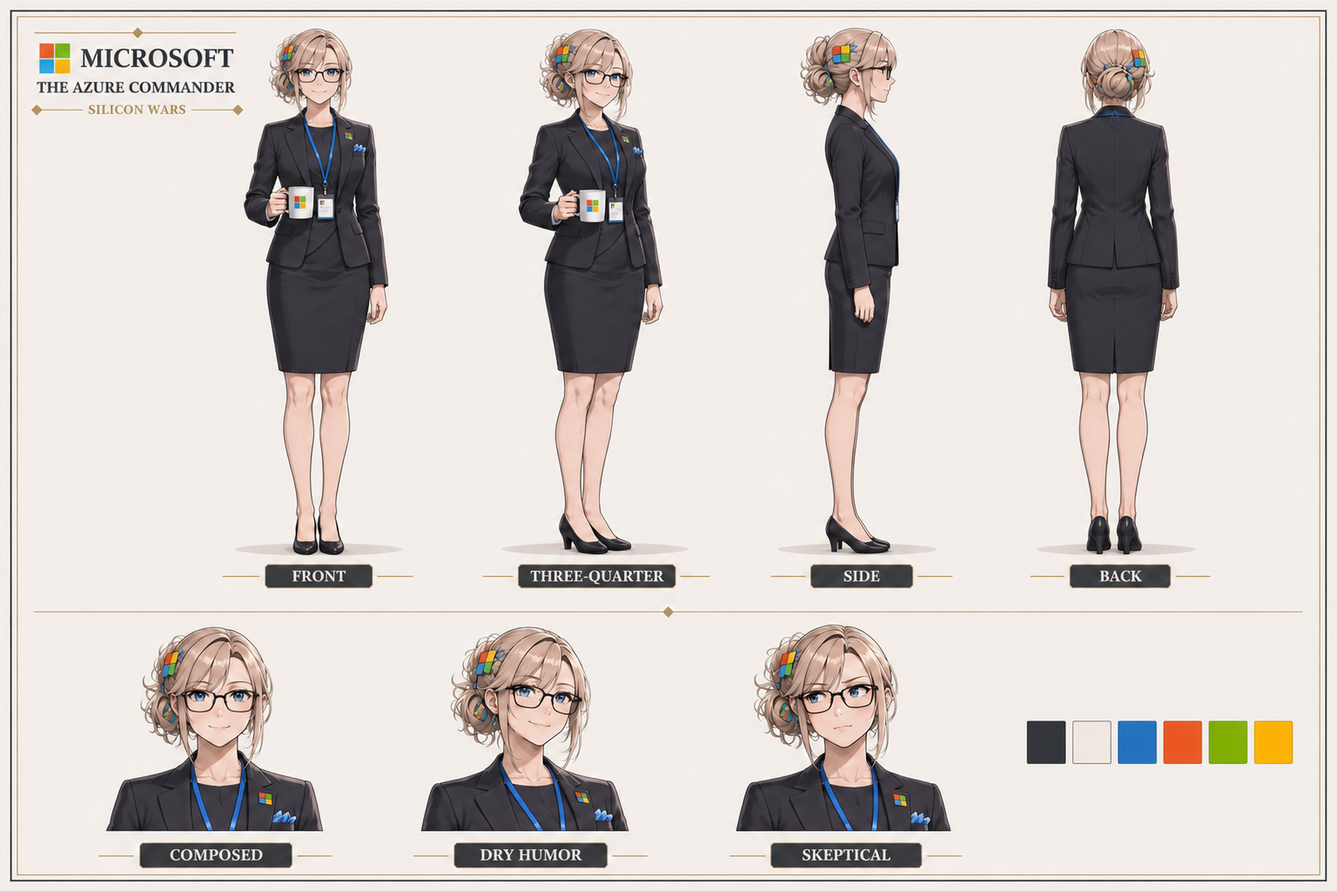
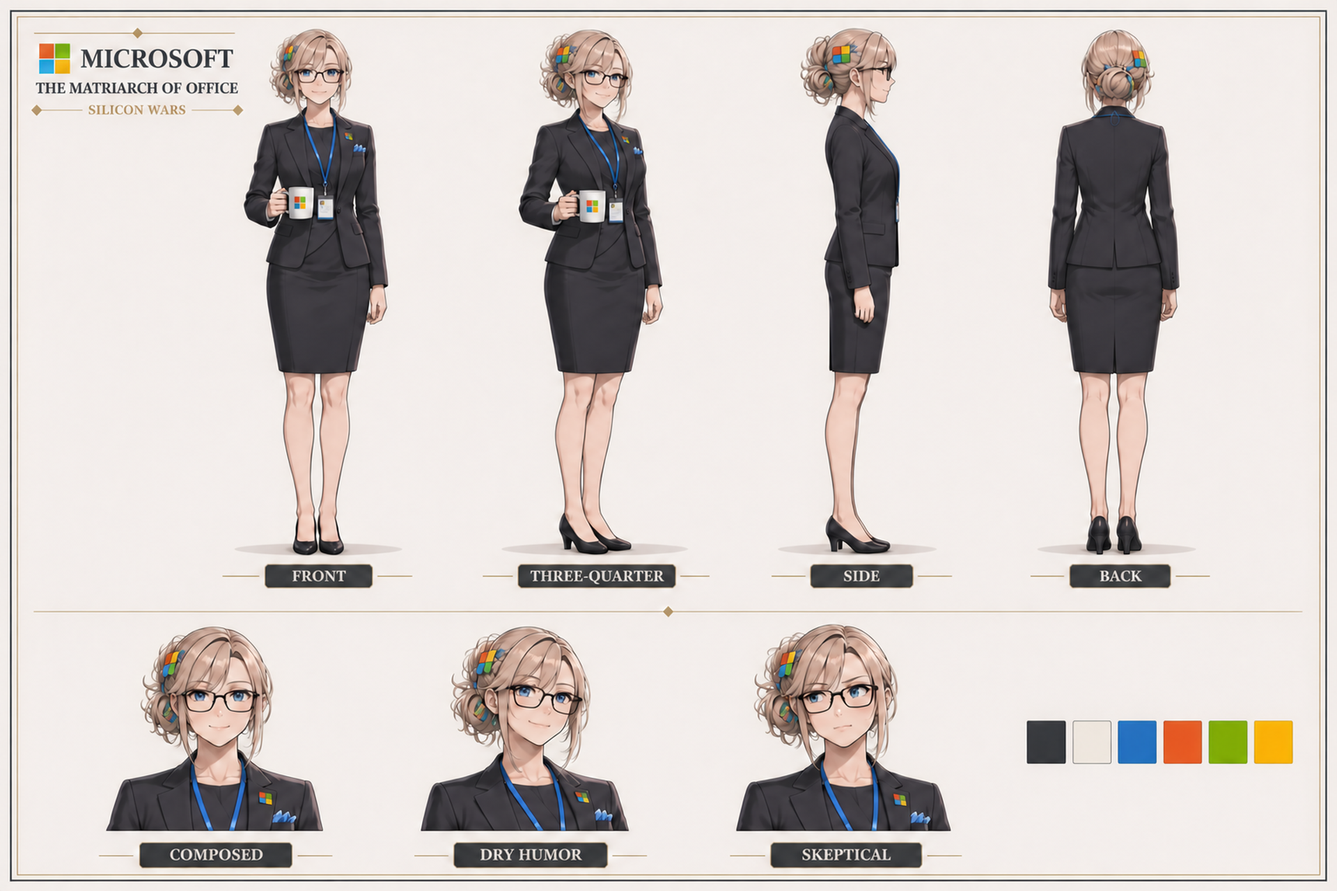
Finish Microsoft reference art as The Matriarch of Office

diff --git a/index.html b/index.html
@@ -644,7 +644,7 @@
             <article class="character-card"><img src="characters/amd/reference_card.jpg" alt="AMD — The Crimson Challenger" fetchpriority="high"><div class="card-caption"><span class="character-name">AMD</span><span class="character-title">The Crimson Challenger</span></div></article>
             <article class="character-card"><img src="characters/nvidia/reference_card.jpg" alt="Nvidia — The Emerald Queen" fetchpriority="high"><div class="card-caption"><span class="character-name">Nvidia</span><span class="character-title">The Emerald Queen</span></div></article>
             <article class="character-card"><img src="characters/google/reference_card.jpg" alt="Google — The Rainbow Polymath" loading="lazy"><div class="card-caption"><span class="character-name">Google</span><span class="character-title">The Rainbow Polymath</span></div></article>
-            <article class="character-card"><img src="characters/microsoft/reference_card.jpg" alt="Microsoft — The Azure Commander" loading="lazy"><div class="card-caption"><span class="character-name">Microsoft</span><span class="character-title">The Azure Commander</span></div></article>
+            <article class="character-card"><img src="characters/microsoft/reference_card.jpg" alt="Microsoft — The Matriarch of Office" loading="lazy"><div class="card-caption"><span class="character-name">Microsoft</span><span class="character-title">The Matriarch of Office</span></div></article>
             <article class="character-card"><img src="characters/apple/reference_card.jpg" alt="Apple — The Silver Perfectionist" loading="lazy"><div class="card-caption"><span class="character-name">Apple</span><span class="character-title">The Silver Perfectionist</span></div></article>
             <article class="character-card"><img src="characters/meta/reference_card.jpg" alt="Meta — The Social Worldbuilder" loading="lazy"><div class="card-caption"><span class="character-name">Meta</span><span class="character-title">The Social Worldbuilder</span></div></article>
             <article class="character-card"><img src="characters/amazon/reference_card.jpg" alt="Amazon — The Logistics Overlord" loading="lazy"><div class="card-caption"><span class="character-name">Amazon</span><span class="character-title">The Logistics Overlord</span></div></article>

diff --git a/characters/microsoft/character_sheet.prompt.md b/characters/microsoft/character_sheet.prompt.md
@@ -4,7 +4,7 @@ All illustrations were generated with the built-in image generator.
 
 ## Revised reference card (2026-11-07)
 
-- Output [Painted reference card](reference_card.jpg) (1280 x 1920)
+- Output [Painted reference card](https://github.com/hevangel/silicon_wars_anime_girls/blob/67db1849cf4ebf3f295f9b35ecee7334c55d8beb/characters/microsoft/reference_card.jpg) (1280 x 1920)
 - Input [Previous reference card](https://github.com/hevangel/silicon_wars_anime_girls/blob/d3f5842/characters/microsoft/reference_card.jpg), the datasheet crop that was the design source
 - Direction from Horace: the old color and style is good; glasses, suit, corporate name tag, and a coffee mug; make her 30 years old. The crop already had glasses, suit, lanyard badge, and mug, so the revision keeps all of them and makes the 30-year-old portrayal explicit. The card's caption title ("The Platform Strategist") was superseded by her canonical title, The Azure Commander. Note: the old README/roster said "navy / deep blue hair," but the card Horace approved is ash-blonde; the card wins and the text files were corrected to match it.
 
@@ -20,7 +20,7 @@ Create a polished landscape 3:2 anime character model sheet for MICROSOFT, THE A
 
 ## Expression sheet
 
-The built-in image generator used the [current model sheet](https://github.com/hevangel/silicon_wars_anime_girls/blob/640e9a8216b12197c82e1dc4211c0e7536163c22/characters/microsoft/character_sheet.png) for identity and [Intel's expression sheet](../intel/expressions.png) for layout and acting. The output is [expressions.png](expressions.png) (1920 x 1280). All 12 labels are correct and in order. Correction history: the first take was missing her glasses in 7 of the 12 cells; a correction pass the same day (at Horace's request) added the same black-rimmed glasses to EYES CLOSED, CRYING, SURPRISED, FLUSTERED, SERIOUS, BLUSHING, and EXCITED, so the installed sheet has glasses in all 12 cells and the full-body figure.
+The built-in image generator used the [current model sheet](https://github.com/hevangel/silicon_wars_anime_girls/blob/640e9a8216b12197c82e1dc4211c0e7536163c22/characters/microsoft/character_sheet.png) for identity and [Intel's expression sheet](../intel/expressions.png) for layout and acting. The output is [expressions.png](https://github.com/hevangel/silicon_wars_anime_girls/blob/67db1849cf4ebf3f295f9b35ecee7334c55d8beb/characters/microsoft/expressions.png) (1920 x 1280). All 12 labels are correct and in order. Correction history: the first take was missing her glasses in 7 of the 12 cells; a correction pass the same day (at Horace's request) added the same black-rimmed glasses to EYES CLOSED, CRYING, SURPRISED, FLUSTERED, SERIOUS, BLUSHING, and EXCITED, so the installed sheet has glasses in all 12 cells and the full-body figure.
 
 Create a production-ready colored manga EXPRESSION SHEET for MICROSOFT, THE AZURE COMMANDER, in Silicon Wars, a 30-year-old woman. Image 1 is this character's current model sheet. Follow it closely for the exact facial proportions, blue eyes, black-rimmed rectangular glasses worn in every cell, light ash-blonde hair in a neat low bun with four-color windowpane hair clips, outfit, colors and body build. Image 2 is a layout and acting reference only. Use its one-full-body-plus-twelve-faces structure and range of expressions. Her costume from Image 1: tailored dark charcoal suit with a fitted blazer, four-color windowpane lapel pin, azure-blue pocket square, white dress shirt, blue corporate lanyard with an employee ID name badge at her chest, dark suit trousers, and black low-heel pumps. Palette accents are azure blue and the four windowpane colors red, green, blue, and yellow. Her default demeanor is calm and commanding, with dry humor; in anger she gives a clipped executive reprimand; in excitement she shows rare launch-day enthusiasm; ominous is a quiet boardroom stare over the top of her glasses.
 
@@ -51,7 +51,7 @@ The built-in image generator used the layout guides from the pinned revision bel
 
 ### Model sheet
 
-Inputs [Image 1](https://github.com/hevangel/silicon_wars_anime_girls/blob/640e9a8216b12197c82e1dc4211c0e7536163c22/characters/microsoft/reference_card.jpg), [Image 2](https://github.com/hevangel/silicon_wars_anime_girls/blob/640e9a8216b12197c82e1dc4211c0e7536163c22/characters/_template/layout/model_sheet_layout.png), [Image 3](https://github.com/hevangel/silicon_wars_anime_girls/blob/640e9a8216b12197c82e1dc4211c0e7536163c22/characters/microsoft/character_sheet.png). Output [character_sheet.png](character_sheet.png), 1536 × 1024 render exported at 1920 × 1280.
+Inputs [Image 1](https://github.com/hevangel/silicon_wars_anime_girls/blob/640e9a8216b12197c82e1dc4211c0e7536163c22/characters/microsoft/reference_card.jpg), [Image 2](https://github.com/hevangel/silicon_wars_anime_girls/blob/640e9a8216b12197c82e1dc4211c0e7536163c22/characters/_template/layout/model_sheet_layout.png), [Image 3](https://github.com/hevangel/silicon_wars_anime_girls/blob/640e9a8216b12197c82e1dc4211c0e7536163c22/characters/microsoft/character_sheet.png). Output [character_sheet.png](https://github.com/hevangel/silicon_wars_anime_girls/blob/67db1849cf4ebf3f295f9b35ecee7334c55d8beb/characters/microsoft/character_sheet.png), 1536 × 1024 render exported at 1920 × 1280.
 
 Regenerate MICROSOFT, THE AZURE COMMANDER, for the Silicon Wars production reference library. Age portrayal: adult, 30 years old. Image 1 is Microsoft's approved card, the strict face and clothing reference. Image 3 is the previous turnaround for outfit details and labels only; its short, stocky proportions and centered header are the errors being corrected. Image 2 is the official blank layout for structure and chrome ONLY. Copy it closely and replace all mannequins and placeholder bars with the specified artwork and labels.
 
@@ -69,7 +69,7 @@ Edit this finished Microsoft character sheet. Make only a palette correction: ch
 
 ### Chibi sheet
 
-Inputs [Image 1](https://github.com/hevangel/silicon_wars_anime_girls/blob/640e9a8216b12197c82e1dc4211c0e7536163c22/characters/microsoft/character_sheet.png), [Image 2](https://github.com/hevangel/silicon_wars_anime_girls/blob/640e9a8216b12197c82e1dc4211c0e7536163c22/characters/_template/layout/chibi_sheet_layout.png), [Image 3](https://github.com/hevangel/silicon_wars_anime_girls/blob/640e9a8216b12197c82e1dc4211c0e7536163c22/characters/microsoft/chibi_sheet.png). Output [chibi_sheet.png](chibi_sheet.png), 1536 × 1024 render exported at 1920 × 1280.
+Inputs [Image 1](https://github.com/hevangel/silicon_wars_anime_girls/blob/640e9a8216b12197c82e1dc4211c0e7536163c22/characters/microsoft/character_sheet.png), [Image 2](https://github.com/hevangel/silicon_wars_anime_girls/blob/640e9a8216b12197c82e1dc4211c0e7536163c22/characters/_template/layout/chibi_sheet_layout.png), [Image 3](https://github.com/hevangel/silicon_wars_anime_girls/blob/640e9a8216b12197c82e1dc4211c0e7536163c22/characters/microsoft/chibi_sheet.png). Output [chibi_sheet.png](https://github.com/hevangel/silicon_wars_anime_girls/blob/67db1849cf4ebf3f295f9b35ecee7334c55d8beb/characters/microsoft/chibi_sheet.png), 1536 × 1024 render exported at 1920 × 1280.
 
 Regenerate MICROSOFT, THE AZURE COMMANDER, for the Silicon Wars production reference library. Age portrayal: adult, 30 years old. Image 1 is the approved model sheet, the strict character and costume reference. Image 3 is the previous chibi sheet for existing character motifs only; rebuild its proportions and style using the specification below. Image 2 is the official blank layout for structure and chrome ONLY. Copy it closely and replace all mannequins and placeholder bars with the specified artwork and labels.
 
@@ -82,3 +82,74 @@ Use a 1920 × 1280 landscape 3:2 canvas. Four separate complete turnarounds at t
 **CHIBI TAG (locked):** a small dark charcoal plaque with cream capitals reading "CHIBI", at the top right inside the frame, in the same plaque style as the view labels. It is the only place the word appears. No other badge, sticker or banner.
 
 Top-left lockup: four-color Microsoft windowpane. Place the symbol immediately to the left of "MICROSOFT". The canonical title is exactly "THE AZURE COMMANDER". Set "SILICON WARS" inside the bottom rule. Preserve genuine costume/prop logos only. Exactly one "CHIBI" plaque at top right.
+
+## The Matriarch of Office
+
+The built-in image generator finished the expression sheet and portrait and applied the new title to all four assets. Earlier titles are retained in the historical prompts.
+
+### Model sheet
+
+Input [previous character_sheet.png](https://github.com/hevangel/silicon_wars_anime_girls/blob/67db1849cf4ebf3f295f9b35ecee7334c55d8beb/characters/microsoft/character_sheet.png).
+
+Edit the supplied finished Microsoft character model sheet. Replace the old character title "THE AZURE COMMANDER" in the character title under the MICROSOFT wordmark at top left with the exact text "THE MATRIARCH OF OFFICE". Keep it on one line in the same serif style, spacing, color and alignment, resizing slightly to fit if needed. Preserve "MICROSOFT" and all other wording. Keep her face, age, ash-blonde low bun, black rectangular glasses, fitted charcoal dress and blazer, mug, silhouette, pose, composition, paper, labels and gold frame exactly as shown. Keep the SILICON WARS subtitle and the four-color lockup icon in their existing positions.
+
+Output [character_sheet.png](character_sheet.png), exported at 1920 × 1280.
+
+### Expression sheet
+
+The first format pass used [Image 1](https://github.com/hevangel/silicon_wars_anime_girls/blob/67db1849cf4ebf3f295f9b35ecee7334c55d8beb/characters/microsoft/character_sheet.png), [Image 2](https://github.com/hevangel/silicon_wars_anime_girls/blob/67db1849cf4ebf3f295f9b35ecee7334c55d8beb/characters/_template/layout/expressions_layout.png), [Image 3](https://github.com/hevangel/silicon_wars_anime_girls/blob/67db1849cf4ebf3f295f9b35ecee7334c55d8beb/characters/microsoft/expressions.png). The first render was the input to the final edit below.
+
+Regenerate MICROSOFT, THE AZURE COMMANDER, for the Silicon Wars production reference library. Age portrayal: adult, 30 years old. Image 1 is the approved model sheet, the strict character and costume reference. Image 3 is the previous expression sheet for the approved acting only; replace its layout and frame. Image 2 is the official blank layout for structure and chrome ONLY. Copy it closely and replace all mannequins and placeholder bars with the specified artwork and labels.
+
+Preserve the character's identity and costume from Image 1. 30-year-old woman. Light ash-blonde hair in a neat low bun with four-color windowpane hair clips, blue eyes, black-rimmed rectangular glasses (worn in every view), tailored dark charcoal knee-length sheath business dress under a fitted blazer with windowpane lapel pin and azure pocket square, blue corporate lanyard with ID name badge, black low-heel pumps. She wears a dress, never trousers (outfit changed 2026-11-07 at Horace's direction). Signature prop: white coffee mug with the four-color windowpane logo.  The source artwork takes precedence for visible details if older written summaries differ. Preserve face, hairstyle, age, build, costume construction, accessories, signature symbols and color palette.
+
+Use 1920 × 1280, landscape 3:2. Left 30% has the title lockup and exactly one whole standing figure, visible from headwear to shoes, matching Image 1's build. The right has precisely 12 bordered head-and-shoulders cells in 3 columns × 4 rows, consistent face scale, fixed accessories, and this exact row order:
+NEUTRAL | SMILING | EYES CLOSED
+ANGRY | CRYING | SURPRISED
+SMUG | FLUSTERED | SERIOUS
+BLUSHING | EXCITED | OMINOUS
+Keep each expression distinct and the text readable. Microsoft is tall and slender, 7.25–7.5 anatomical head heights, with long natural legs and fitted knee-length dress, never trousers. Keep her black rectangular glasses visible in all twelve cells and on the full standing figure.
+
+**SHEET CHROME (locked):** Plain warm off-white paper background (#F4F1EC). A thin charcoal outer frame with a fine gold inner hairline, identical for every character; the character's accent colors appear only in the character, never in the frame. **TITLE LOCKUP (locked, identical on the model, chibi and expression sheets):** at the top left, left-aligned, exactly four elements in this order. (1) The company's real logo, about the height of the name, immediately to the left of (2) the company name in large dark serif capitals. Beneath them, (3) the character's canonical title from roster.json in smaller dark serif capitals, and (4) the sub-title "SILICON WARS" in small, letter-spaced gold-gray serif capitals, set inside the bottom gold rule (rule, text, rule) instead of on its own line. A short gold rule with a centered diamond sits above the group, and the bottom rule ends in a small gold diamond at each end. No tagline and no other text in the lockup. **Wordmark exception (locked):** if the company's logo already spells the full company name (IBM, Oracle, Intel, Google, Samsung and similar), draw only the logo, at the same visual size as the logo-plus-name pair, and do not draw the name a second time. The lockup is then logo, title, sub-title. Use a symbol-only logo (Apple, Nvidia and similar) with the name beside it as in (1) and (2). Record which form each character uses in `continuity.yaml`. It sits at the top of the left column. **EXPRESSION LABEL BOX (locked):** each of the 12 cells is a square-cornered rectangle with a thin gold border and a pale cream fill (#FAF8F4). Its label sits in a dark charcoal (#3A3D44) rounded-corner plaque with a thin gold outline. All 12 plaques are the same size, about 60 percent of the cell width and one-eighth of the cell height, centered horizontally on the cell's top edge so the cell border passes behind the plaque. The label is one line of bold cream serif capitals, centered, at the same size in every plaque. Labels never sit on the face, on bare paper, or in an unfilled box, and no plaque has an icon, color accent, shadow or different width. **LOGO RULE (locked):** no company logo, emblem or brand mark except the one in the title lockup and those that are part of the costume or props already on the model sheet; no other header logo, no watermark, tagline or marketing copy.
+
+Top-left lockup: four-color Microsoft windowpane. Place the symbol immediately to the left of "MICROSOFT". The canonical title is exactly "THE AZURE COMMANDER". Set "SILICON WARS" inside the bottom rule. Preserve genuine costume/prop logos only.
+
+Microsoft-specific verification: Image 1 is the corrected tall turnaround already on main. Copy the full standing three-quarter figure's lean build and leg length, using the same small mature head, torso width, long legs, knee-length business dress, black pumps, and upright pose. Place the mug at waist height. Image 3 supplies facial acting only and must not influence body shape, paper color, frame, or typography. Her black rectangular eyeglasses are a permanent accessory: show the frame across the bridge of her nose and around BOTH lenses in each of the twelve portraits. The SMUG cell must have her glasses visibly on as she gives a subtle dry half-smile. EYES CLOSED shows her eyelids through the same lenses. OMINOUS is a restrained boardroom stare with the frames still visible. Keep the four-color windowpane hair clip and blue lanyard. The lockup appears once at upper left.
+
+**Final edit**
+
+Edit the supplied finished Microsoft expression sheet. Replace the old character title "THE AZURE COMMANDER" in the character title under the MICROSOFT wordmark at top left with the exact text "THE MATRIARCH OF OFFICE". Keep it on one line in the same serif style, spacing, color and alignment, resizing slightly to fit if needed. Preserve "MICROSOFT" and all other wording. Keep her face, age, ash-blonde low bun, black rectangular glasses, fitted charcoal dress and blazer, mug, silhouette, pose, composition, paper, labels and gold frame exactly as shown. Keep the SILICON WARS subtitle and the four-color lockup icon in their existing positions.
+
+Also fix exactly one expression: the tile in row 3, column 1 labeled SMUG. Draw the SAME black rectangular eyeglasses already worn in the NEUTRAL cell, complete with a visible black bridge across the nose and a fully closed black outline around both lenses, including the bottom rims. Keep her half-smile and look. Keep the glasses in every other cell and on the full figure, and do not redraw their acting. Preserve the tall, slim full-body pose, dress and mug.
+
+Output [expressions.png](expressions.png), exported at 1920 × 1280.
+
+### Chibi sheet
+
+Input [previous chibi_sheet.png](https://github.com/hevangel/silicon_wars_anime_girls/blob/67db1849cf4ebf3f295f9b35ecee7334c55d8beb/characters/microsoft/chibi_sheet.png).
+
+Edit the supplied finished Microsoft chibi turnaround sheet. Replace the old character title "THE AZURE COMMANDER" in the character title under the MICROSOFT wordmark at top left with the exact text "THE MATRIARCH OF OFFICE". Keep it on one line in the same serif style, spacing, color and alignment, resizing slightly to fit if needed. Preserve "MICROSOFT" and all other wording. Keep her face, age, ash-blonde low bun, black rectangular glasses, fitted charcoal dress and blazer, mug, silhouette, pose, composition, paper, labels and gold frame exactly as shown. Keep the SILICON WARS subtitle and the four-color lockup icon in their existing positions. Keep the single CHIBI tag at top right and preserve the existing 2.5-head proportions in every standing view.
+
+Output [chibi_sheet.png](chibi_sheet.png), exported at 1920 × 1280.
+
+### Reference card
+
+The first format pass used [Image 1](https://github.com/hevangel/silicon_wars_anime_girls/blob/67db1849cf4ebf3f295f9b35ecee7334c55d8beb/characters/microsoft/character_sheet.png), [Image 2](https://github.com/hevangel/silicon_wars_anime_girls/blob/67db1849cf4ebf3f295f9b35ecee7334c55d8beb/characters/_template/layout/reference_card_layout.png), [Image 3](https://github.com/hevangel/silicon_wars_anime_girls/blob/67db1849cf4ebf3f295f9b35ecee7334c55d8beb/characters/microsoft/reference_card.jpg). The first render was the input to the final edit below.
+
+Regenerate MICROSOFT, THE AZURE COMMANDER, for the Silicon Wars production reference library. Age portrayal: adult, 30 years old. Image 1 is the approved model sheet, the strict character and costume reference. Image 3 is the previous card for the established scene and acting; rebuild its typography, frame and layout. Image 2 is the official blank layout for structure and chrome ONLY. Copy it closely and replace all mannequins and placeholder bars with the specified artwork and labels.
+
+Preserve the character's identity and costume from Image 1. 30-year-old woman. Light ash-blonde hair in a neat low bun with four-color windowpane hair clips, blue eyes, black-rimmed rectangular glasses (worn in every view), tailored dark charcoal knee-length sheath business dress under a fitted blazer with windowpane lapel pin and azure pocket square, blue corporate lanyard with ID name badge, black low-heel pumps. She wears a dress, never trousers (outfit changed 2026-11-07 at Horace's direction). Signature prop: white coffee mug with the four-color windowpane logo.  The source artwork takes precedence for visible details if older written summaries differ. Preserve face, hairstyle, age, build, costume construction, accessories, signature symbols and color palette.
+
+Use a 1280 × 1920 portrait 2:3 canvas. Draw one coherent scene and character portrait. Preserve the existing narrative action, signature prop, palette and setting from the previous portrait.  Maintain clean manga lines and polished cel shading. Keep the character fully legible at thumbnail size. Put any sign or book content in pictograms only under the locked card text rule. Rebuild the entire prior frame, dashboard or profile text.
+
+**CHROME (locked):** Match Image 2's frame and nameplate exactly. Frame: a thin gold outer border with a fine darker-gold inner hairline, one small gold diamond at top center, uniform on all four sides, with no art crossing it. Nameplate: a dark charcoal hexagon-ended plate across the bottom with a thin gold outline, a gold diamond at each end and one centered below it, holding exactly two centered lines of serif capitals in cream: the name large, the title smaller between two short gold rules. **LOGO RULE (locked):** no company logo, emblem or brand mark anywhere outside the character's own costume and props as described in the model sheet. None in the frame, none in the nameplate, none as a header, and no watermark, tagline, banner, profile panel or any text beyond the two nameplate lines.
+
+Render exactly "MICROSOFT" and "THE AZURE COMMANDER" on the two centered nameplate lines.
+
+Preserve Image 3's office, composed professional smile and nearly knee-up three-quarter composition. Keep the ash-blonde low bun, blue eyes behind black rectangular glasses, windowpane hair clip and lapel pin, azure pocket square, tailored charcoal dress under the fitted blazer, and blue lanyard. Her naturally drawn hand wraps around the handle of the white coffee mug at waist height. The windowpane logo may appear on the costume and mug only. Set the two lines in large cream serif capitals, no logo next to the name. Keep the blue lighting within the picture and use the gold frame and charcoal plate from Image 2.
+
+**Final edit**
+
+Edit the supplied finished Microsoft portrait reference card. Replace the old character title "THE AZURE COMMANDER" in the smaller second line centered in the bottom charcoal nameplate with the exact text "THE MATRIARCH OF OFFICE". Keep it on one line in the same serif style, spacing, color and alignment, resizing slightly to fit if needed. Preserve "MICROSOFT" and all other wording. Keep her face, age, ash-blonde low bun, black rectangular glasses, fitted charcoal dress and blazer, mug, silhouette, pose, composition, paper, labels and gold frame exactly as shown. The bottom nameplate has only the two centered lines MICROSOFT and THE MATRIARCH OF OFFICE. No tagline, logo, or extra lettering in the nameplate.
+
+Output [reference_card.jpg](reference_card.jpg), exported at 1280 × 1920.

diff --git a/characters/microsoft/art_prompt.md b/characters/microsoft/art_prompt.md
@@ -1,21 +1,15 @@
-# Microsoft full-resolution character-sheet brief
+# Microsoft · The Matriarch of Office
 
-Create a **16:9 anime character-reference sheet** for Microsoft, titled “The Azure Commander,” in the established detailed cyberpunk technology-datasheet aesthetic of Silicon Wars. Include large full-body front view, side view, back view, three facial expressions, signature equipment, color palette, logo/name heading, and a concise character bio.
+Use the [model sheet](character_sheet.png), [expression sheet](expressions.png), [chibi sheet](chibi_sheet.png), and [reference card](reference_card.jpg) for continuity.
 
-**Age portrayal:** 30-year-old adult. Adult character, age-appropriate styling.
+- Draw her as a composed 30-year-old adult with a tall, lean silhouette. Keep her light ash-blonde low bun, loose face-framing strands, four-color windowpane hair clips, and blue eyes behind black rectangular glasses. Keep her glasses on for every expression.
+- Preserve the fitted dark charcoal blazer over a knee-length charcoal sheath dress, azure pocket square, windowpane lapel pin, blue ID lanyard, and black low-heel pumps. Her white windowpane mug is her signature prop.
+- Give her a calm gaze and dry humor. She can smile warmly or issue a clipped boardroom reprimand without losing her composure.
+- Use the shared gold frame and charcoal two-line nameplate for the portrait. Keep the azure glass office and the mug held at waist height.
+- For chibi, use the shared 2.5-head standing proportion and keep the glasses, dress, blazer, hair clips, lanyard, and mug recognizable.
 
-**Appearance:** Ash-blonde hair in a neat low bun with four-color windowpane clips, glasses and a calm commanding gaze (the approved reference card is ash-blonde; older text saying navy hair was wrong)
+Signature ability · Azure Fleet.
 
-**Clothing:** Tailored dark charcoal business dress (knee-length sheath) under a fitted blazer with four-color windowpane pin and azure pocket square, blue lanyard with ID name badge, and projected business dashboards; white coffee mug with the windowpane logo
+Signature line · “Great research. Can we deploy it securely by Monday?”
 
-**Personality and pose:** Pragmatic, diplomatic, procedural and strategic. Give this character a distinctive pose that differs from other company heroines.
-
-**Speech and expression:** Dry humor and questions about delivery schedules
-
-**Power visualization:** Azure Fleet
-
-**Quote:** “Great research. Can we deploy it securely by Monday?”
-
-**Continuity:** Match the preferred group portraits listed in `../../scratchpad/illustrations.md`. Preserve the revised red-haired AMD and green-haired Nvidia. Preserve distinct Fairchild versus Bell Labs silhouettes, while keeping DEC and Sun visually consistent with their final group poster. Avoid illegible small text and invented technical numerical claims.
-
-**Revised design lock (2026-11-07):** The approved design is the [model sheet](character_sheet.png) and [revised reference card](reference_card.jpg): a 30-year-old, ash-blonde low bun with windowpane clips, black-rimmed glasses in every view, dark charcoal business dress under the fitted blazer (trousers retired 2026-11-07 at Horace's direction), corporate lanyard name badge, and her white windowpane-logo coffee mug.
+[Exact generation prompts](character_sheet.prompt.md)

diff --git a/characters/microsoft/README.md b/characters/microsoft/README.md
@@ -1,4 +1,4 @@
-# Microsoft — The Azure Commander
+# Microsoft — The Matriarch of Office
 
 > An original *Silicon Wars* company-personification character. Unofficial fictional fan work.
 
@@ -128,9 +128,9 @@ She starts the season as the steady partner holding the AI alliance together. Th
 
 ## Character design assets
 - [Illustrated character model sheet](character_sheet.png) with turnarounds in the business dress, three expressions, and palette.
-- [Expression sheet](expressions.png) with a full-body pose in the business dress and 12 facial expressions; glasses in 11 of 12 cells (SMUG still missing them).
+- [Expression sheet](expressions.png) with a tall, lean full-body pose and 12 labeled expressions. Her black rectangular glasses appear throughout.
 - [Chibi sheet](chibi_sheet.png) — the chibi style variant: turnarounds, three expressions, and palette.
-- [Painted reference card](reference_card.jpg) — revised 2026-11-07 from the original group-datasheet crop at full size, as a 30-year-old, with glasses, suit, corporate name tag, and coffee mug; redrawn the same day in a business dress instead of trousers.
+- [Painted reference card](reference_card.jpg) with her charcoal business dress and windowpane mug in the shared gold-framed portrait format.
 - [Model sheet and reference card prompts](character_sheet.prompt.md).
 - [Continuity lock](continuity.yaml).
 - [Full-quality illustration brief](art_prompt.md) — continuity-locked prompt for a final anime drawing.

diff --git a/characters/INDEX.md b/characters/INDEX.md
@@ -11,7 +11,7 @@
 ## Tier 2A · Platforms
 
 - [Google](google/README.md) — The Rainbow Polymath
-- [Microsoft](microsoft/README.md) — The Azure Commander
+- [Microsoft](microsoft/README.md) — The Matriarch of Office
 - [Apple](apple/README.md) — The Silver Perfectionist
 - [Meta](meta/README.md) — The Social Worldbuilder
 - [Amazon](amazon/README.md) — The Logistics Overlord
